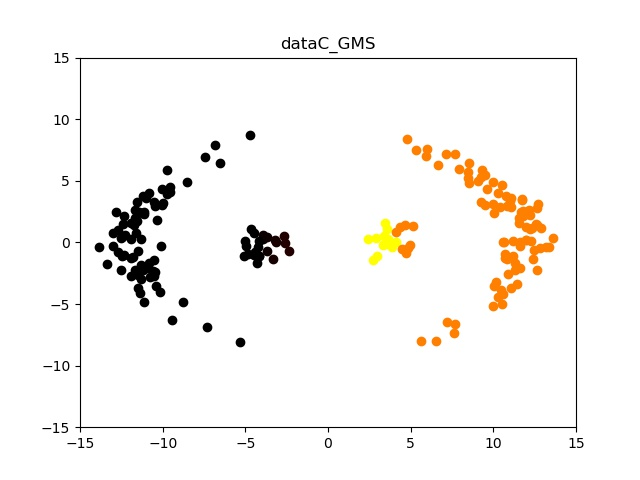
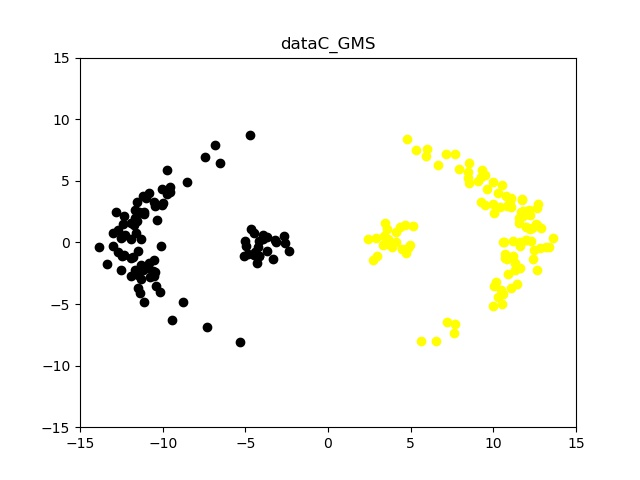
Change bandwidth and decimals

diff --git a/PA-2/PA2_P1.py b/PA-2/PA2_P1.py
@@ -68,12 +68,12 @@ def main():
         plot_cluster(X[:, 0], X[:, 1], GMM.get_result(),
                      'data' + data + '_GMM')
 
-        GMS = im.GaussianMeanShift(bandwidth=3)
+        GMS = im.GaussianMeanShift(bandwidth=5)
         GMS.fit_x(X)
         GMS.cluster()
         exp_dict[(data, 'GMS')] = GMS
         scl = MinMaxScaler()
-        clrs = scl.fit_transform(np.around(GMS.x_,decimals=0))
+        clrs = scl.fit_transform(np.around(GMS.x_,decimals=2))
 
         plot_MS(X[:, 0], X[:, 1], clrs, 'data' + data + '_GMS')
 
